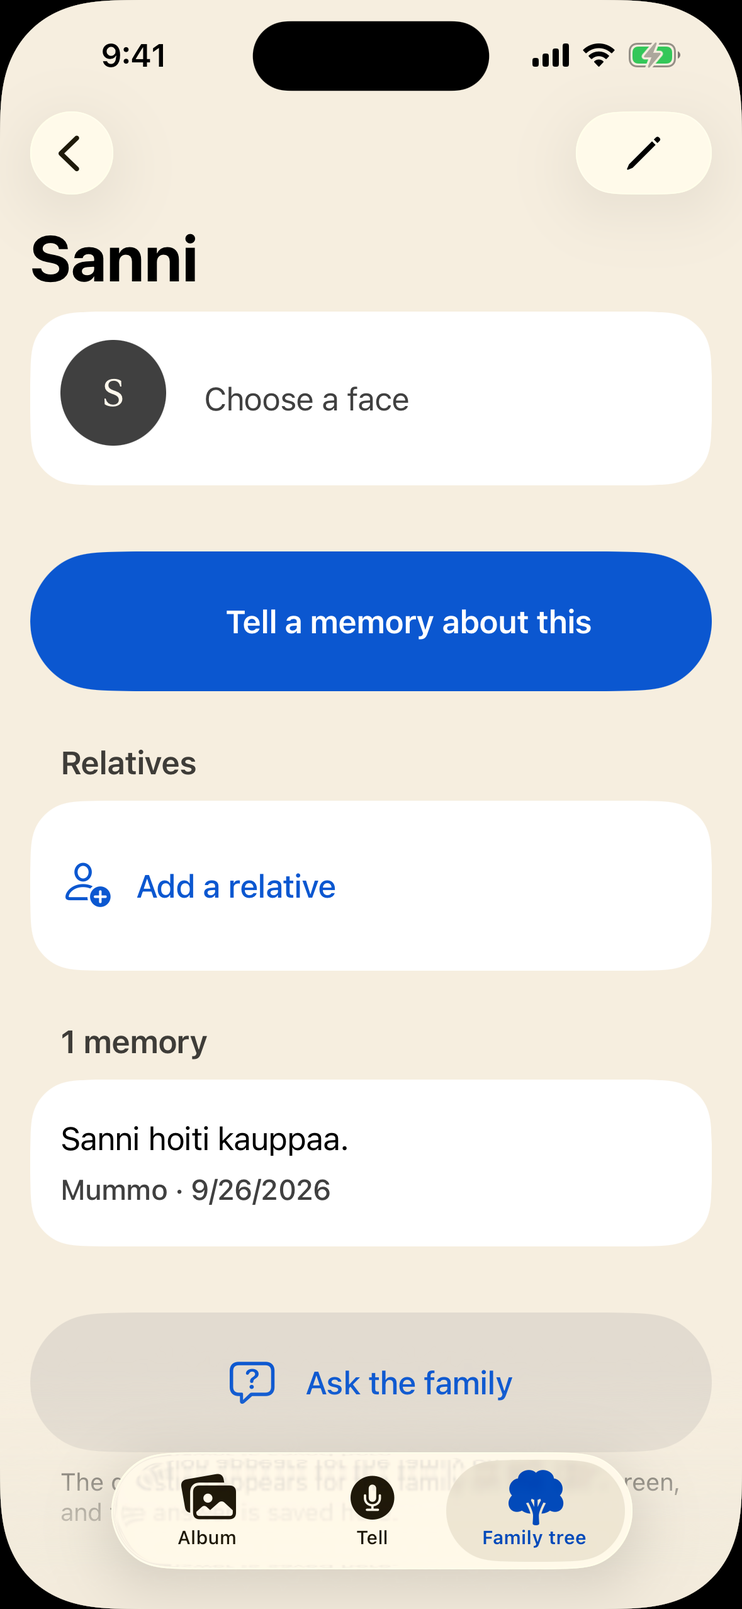
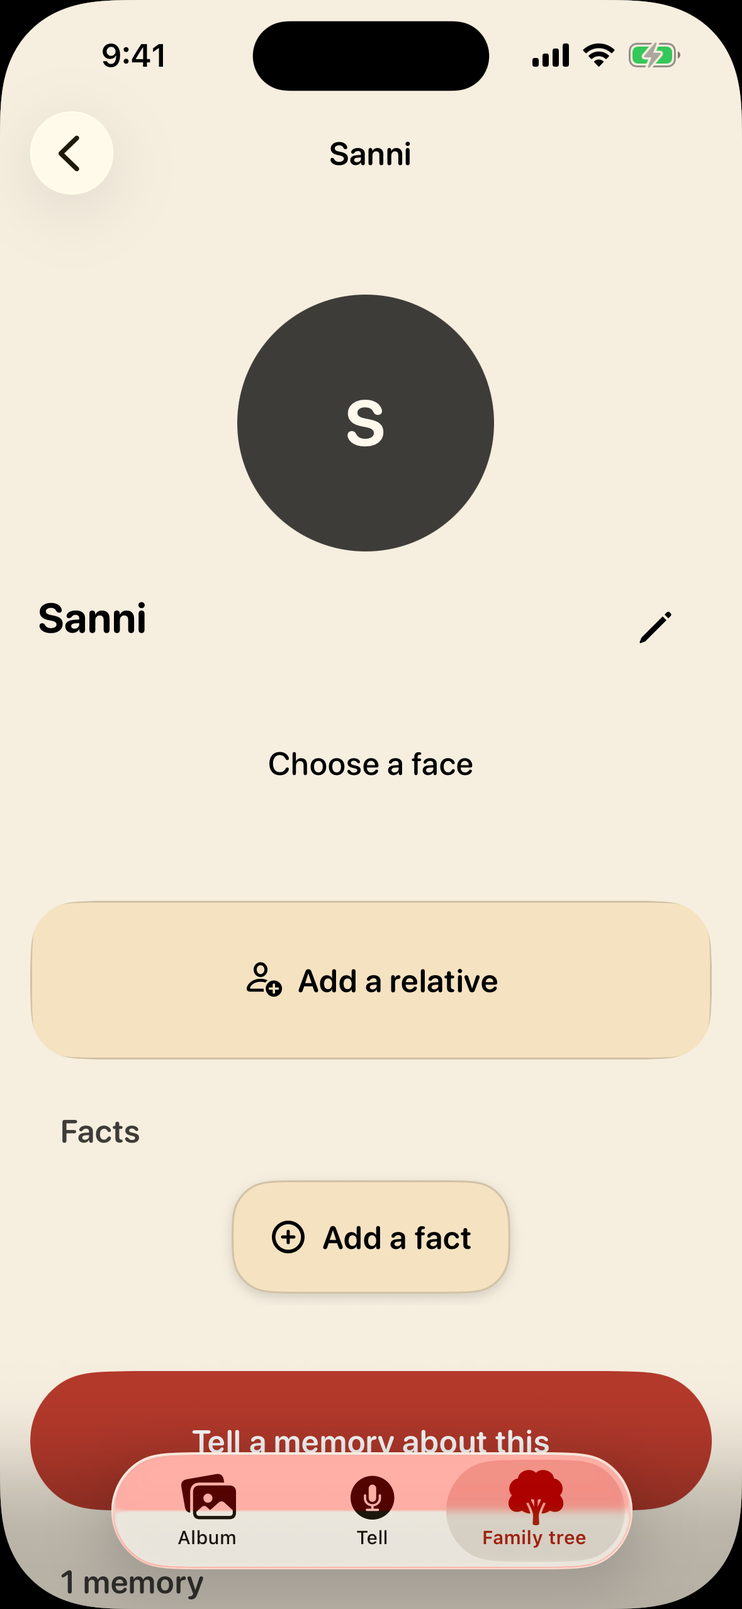
Retake the README pictures and correct the paywall text
The README's second picture was the first telling of an empty archive at
its top: the teller card and the date, with every name the telling heard
out of sight below them. It is now a later telling in the example
archive, scrolled to "I heard these": Aino and Toivo waiting as proposals
and Puumala among the familiar names. A DEBUG-only launch argument,
`-result heard`, does the scrolling, because a screenshot run has no
hands (ScrollsToHeardNames in TellScreen.swift, docs/SETUP.md). Without
it the screen is unchanged. ResultScreenTests, HeardNamesTests and the
three result sweeps pass on the build the pictures came from.

The third picture puts the generated jetty photograph from
scripts/photo-question-bench/ into the film seed for its one shot, in
place of the drawn stand-in. The GIF is the same telling from the
processing screen, held six seconds by `-processing slow`, to the names,
and its caption now says what is canned and what is held.

docs/DETAILS.md sets the result screen at two text sizes side by side and
lost its default-size half to the new picture 2, so the script takes that
state as 06-result-default.png. A GIF's first capture waits a second,
after one caught the launch animation and mount-prints stopped the run.
Every alt text that describes a retaken picture now matches it, the
Family tree tab included.

Text fixes, each read against the code: the server asks RevenueCat but
takes the customer id from the app (ARCHITECTURE §1); since 30 Sep a
[…]

diff --git a/ios/Kinlore/Screens/TellScreen.swift b/ios/Kinlore/Screens/TellScreen.swift
@@ -2464,6 +2464,34 @@ struct BlindCardView: View {
 
 // MARK: - Result
 
+#if DEBUG
+/// Screenshot aid: `-result heard` scrolls the result screen to what the
+/// telling named, two seconds after the screen appears. At the top of the
+/// screen those rows sit below the teller card and the memory's own text,
+/// out of sight on a phone, and a screenshot run has no hands to scroll
+/// with. `scripts/readme-shots.sh` takes the README's result picture and
+/// ends its GIF this way. Without the argument the screen is left as it is.
+private struct ScrollsToHeardNames: ViewModifier {
+    static let anchor = "heard"
+
+    @ViewBuilder
+    func body(content: Content) -> some View {
+        if UserDefaults.standard.string(forKey: "result") == "heard" {
+            ScrollViewReader { proxy in
+                content.task {
+                    try? await Task.sleep(for: .seconds(2))
+                    withAnimation(.easeInOut(duration: 0.6)) {
+                        proxy.scrollTo(Self.anchor, anchor: .top)
+                    }
+                }
+            }
+        } else {
+            content
+        }
+    }
+}
+#endif
+
 private struct ResultView: View {
     @Environment(MemoryStore.self) private var store
     @Environment(Session.self) private var session
@@ -2525,6 +2553,9 @@ private struct ResultView: View {
                 // here keeps the section open for its note (30 Sep 2026).
                 if !model.proposals.isEmpty || !model.known.isEmpty || !confirmedHere.isEmpty {
                     heardSection
+                        #if DEBUG
+                        .id(ScrollsToHeardNames.anchor)
+                        #endif
                 }
 
                 if !model.newQuestions.isEmpty {
@@ -2622,6 +2653,9 @@ private struct ResultView: View {
                 }
             }
             .padding(Elder.screenPadding)
+            #if DEBUG
+            .modifier(ScrollsToHeardNames())
+            #endif
         }
         .alert(
             "Poistetaanko tämä muisto?",

diff --git a/docs/index.html b/docs/index.html
@@ -254,7 +254,7 @@
       <figure class="shot" data-sc-reveal="left" data-sc-reveal-at="0.06 0.5">
         <div class="shot__frame" data-sc-tilt="5">
           <img src="media/04-person.png" width="1179" height="2556"
-               alt="Sanni's person card in the app: Choose a face, a large blue button reading Tell a memory about this, an empty Relatives section offering Add a relative, one memory, and an Ask the family button.">
+               alt="Sanni's person card in the app: a large initial S where a face would be, Choose a face, an Add a relative button, a Facts section offering Add a fact, and the red Tell a memory about this button half under the tab bar.">
         </div>
         <figcaption>
           <span data-l="fi" lang="fi">Oikea sovellus englanniksi, iPhone 16 -simulaattorissa.</span>

diff --git a/ios/Kinlore/Screens/TellerCard.swift b/ios/Kinlore/Screens/TellerCard.swift
@@ -4,7 +4,7 @@ import SwiftUI
 ///
 /// The author is the phone and the teller is the voice, and they come apart
 /// the moment one phone goes round a table — the case this app was born in
-/// (docs/PLAN.md §8: a memorial, twenty-five people, photographs on the table
+/// (docs/PLAN.md §8: a memorial, about twenty people, photographs on the table
 /// and nobody able to tell any of it). Until 19 Sep 2026 every telling made on
 /// this phone was filed under the phone's owner, so a grandmother's story told
 /// into a grandchild's phone read *"Ville kertoi"* for ever after.

diff --git a/docs/DETAILS.md b/docs/DETAILS.md
@@ -51,10 +51,10 @@ them sharing one tree. Read them after the code, not before.
 > the time as it was said — and two questions back.
 
 <p align="center">
-  <img src="media/demo.gif" alt="The app at work — Putting the memory in order, finding the people, the places and the time — then Memory saved, a Move to another card button, the date 1950s, and the question Who told this memory? with the answers Me, Someone else and I would rather not be named." width="320">
+  <img src="media/demo.gif" alt="The app at work — Putting the memory in order with the step Finding the people, the places and the time — then Memory saved, a Move to another card button, the date 1950s and the question Who told this memory?, and then the screen moves down past the memory's own text to I heard these: Aino and Toivo, each with the sentence the name was heard in and a cross and a tick, and Puumala under Familiar names." width="320">
 </p>
 
-<p align="center"><sub>Simulator, stub pipeline — the waiting is real, the model call is canned.<br>Reproduce it, and every picture on this page, with <code>scripts/readme-shots.sh</code>.</sub></p>
+<p align="center"><sub>Simulator, stub pipeline — the telling and the model call are canned, the wait is held six seconds longer so its step can be read, and a debug launch argument does the scrolling.<br>Reproduce it, and every picture on this page, with <code>scripts/readme-shots.sh</code>.</sub></p>
 
 ```
 audio → ASR (Finnish) → raw_transcript (kept verbatim)
@@ -66,9 +66,9 @@ memory.body           mentioned subjects      follow-up questions
 (cleaned text)        (confirmed = 0)         (prompt_question)
 ```
 
-| <img src="media/01-tell.png" alt="The Tell screen: the heading Tell what you remember, the line Talk at your own pace, freely, a large red microphone button with Press and start talking under it, and a Write instead link."> | <img src="media/02-result.png" alt="The result screen: Memory saved, a Move to another card button, the date 1950s, the card Who told this memory? with the answers Me, Someone else and I would rather not be named, and below it the beginning of the spoken text kept as it was said — in Finnish, because the sample telling is."> |
+| <img src="media/01-tell.png" alt="The Tell screen: the heading Tell what you remember, the line Talk at your own pace, and speak up, a large red microphone button with Press and start talking under it, two questions to start from — Who is the oldest person you remember? and Where did you live as a child? — the links Write instead and Add a photograph, and the tabs Album, Tell and Family tree."> | <img src="media/02-result.png" alt="The result screen scrolled to I heard these, with the line Write the name again if I heard it wrong. Nobody joins the family without your approval. Below it Aino and Toivo, each marked Person, with the sentence the name was heard in and a cross and a tick beside it; then Familiar names, where Puumala stands with its sentence and an A different place button."> |
 |---|---|
-| **Telling.** One button, and a way out of it for anyone who would rather type. | **What comes back.** The date is a decade because that is what was said, and no name enters the family tree before somebody confirms it. |
+| **Telling.** One button, and a way out of it for anyone who would rather type. Two questions wait under it for anyone who does not know where to begin. | **What comes back.** A later telling in the example archive. The names it heard wait for a cross or a tick, because no name enters the family tree before somebody confirms it. Above them, as the GIF shows, the date is a decade because that is what was said. |
 
 Everything else in the app exists to make that loop worth repeating. What is
 built and what is not is inventoried, honestly, in
@@ -83,7 +83,7 @@ without a tap. That matters because the person it is for should not have to
 operate anything while she is remembering:
 
 <p align="center">
-  <img src="media/demo-interview.gif" alt="The app putting a memory in order, then asking Who else was there? and listening with a running timer, then writing the speech down as text, putting it in order again and asking What sort of person was Aino? — two full rounds with no tap in between." width="320">
+  <img src="media/demo-interview.gif" alt="The app putting a memory in order, then asking Who else was there? and listening with a running timer, then a checklist — Your voice is kept on this phone, Writing the speech down as text, Finding the people, the places and the time — and then asking Roughly what year was this? and listening again: one round finished and the next begun, with no tap in between." width="320">
 </p>
 
 <p align="center"><sub>Two rounds, hands-free. The timer counts real seconds, not a cut.<br>Reproduce it with <code>scripts/readme-shots.sh</code>, which runs <code>-screen interview</code>.</sub></p>
@@ -125,8 +125,8 @@ The other four, and the full text, are in [CLAUDE.md](../CLAUDE.md#rules-that-do
    `BlindConfirmationTests` checks every text, button and image on it
    ([`ARCHITECTURE.md` §23](ARCHITECTURE.md#the-blind-confirmation-built-30-aug-2026)).
 
-   <p align="center"><img src="media/03-who-is-this.png" alt="The blind card: a drawn stand-in photograph, the question Who is this?, four names in identical black buttons — Sanni, Aino, Eeva and Kalle — and I do not remember below them." width="300"></p>
-   <p align="center"><sub>Simulator, <code>-seed blind</code> — the photograph is the fixture's drawn stand-in.<br>One of the four names is the proposal, and nothing on the screen says which.</sub></p>
+   <p align="center"><img src="media/03-who-is-this.png" alt="The blind card: a generated black-and-white photograph of two women and a man on a lakeside jetty, a rowing boat tied beside them and a log sauna behind, the question Who is this?, four names in identical black buttons — Aino, Elli, Helmi and Liisa — and I do not remember below them." width="300"></p>
+   <p align="center"><sub>Simulator, <code>-seed film</code> — the photograph is generated for the shot, and nobody in it exists.<br>One of the four names is the proposal, and nothing on the screen says which.</sub></p>
 
 5. **Uncertainty is stored, not rounded.** "Sometime in the fifties" goes into
    `date_start`/`date_end` with precision `decade`. No date is forced.
@@ -141,9 +141,9 @@ attaches to any subject. That is why *"write a memory about this photo"* and
 path, and why the family tree is just the edges between person subjects.
 Schema: [`backend/schema.sql`](../backend/schema.sql).
 
-| <img src="media/04-person.png" alt="A person card for Sanni: Choose a face, a large blue button reading Tell a memory about this, an empty Relatives section offering Add a relative, one memory told by Mummo — in Finnish, because the demo archive is — and an Ask the family button."> | <img src="media/05-family.png" alt="The family screen for the Virtaset family on the Free tier: everything sent, the copy on this phone, this month's usage — 7 of 10 minutes of transcription time and 12 of 20 photographs — and the members with the dates they joined."> |
+| <img src="media/04-person.png" alt="A person card for Sanni: a large initial S where a face would be, Choose a face, an Add a relative button, a Facts section offering Add a fact, the red Tell a memory about this button half under the tab bar with Family tree selected, and the heading 1 memory below it."> | <img src="media/05-family.png" alt="The family screen for the Virtaset family on the Free tier: everything sent, the copy on this phone, this month's usage — 7 of 10 minutes of transcription time and 12 of 20 photographs — and the members with the dates they joined."> |
 |---|---|
-| A person card is the same screen as a photo, because a person is the same row. The empty **Relatives** section is the point: a gap is an invitation, not an error. | One archive, several members, one shared quota. The quota belongs to the family rather than to whoever paid for it — see **Who pays**. |
+| A person card is the same screen as a photo, because a person is the same row. *Add a relative* near the top is the point: a gap is an invitation, not an error. | One archive, several members, one shared quota. The quota belongs to the family rather than to whoever paid for it — see **Who pays**. |
 
 ## How to check any of this yourself
 
@@ -224,7 +224,7 @@ session, the 15 Aug commit reported 15 failures that were not real — see
 But the number is not the argument. This is one screen at the default text size
 and at the largest one iOS offers, which is the size rule 1 is actually about:
 
-| <img src="media/02-result.png" alt="The result screen at the default text size: Memory saved, Move to another card, the date 1950s, the whole Who told this memory? card and the start of the spoken text, all visible at once."> | <img src="media/06-result-xxxl.png" alt="The same result screen at the largest accessibility text size: Memory saved wraps to two lines, Move to another card to two and Who told this memory? to three, nothing is clipped or truncated, and the screen scrolls instead."> |
+| <img src="media/06-result-default.png" alt="The result screen at the default text size: Memory saved, Move to another card, the date 1950s, the whole Who told this memory? card and the start of the spoken text, all visible at once."> | <img src="media/06-result-xxxl.png" alt="The same result screen at the largest accessibility text size: Memory saved wraps to two lines, Move to another card to two and Who told this memory? to three, nothing is clipped or truncated, and the screen scrolls instead."> |
 |---|---|
 | Default | Accessibility XXXL |
 

diff --git a/README.md b/README.md
@@ -35,22 +35,21 @@ I built it for the [RevenueCat Shipaton 2026](https://revenuecat-shipaton-2026.d
 hackathon, in the Next Gen Award (the student category).
 
 <p align="center">
-  <img src="docs/media/mounted/demo.gif" alt="The app at work — Putting the memory in order, finding the people, the places and the time — then Memory saved, a Move to another card button, the date 1950s, and the question Who told this memory? with the answers Me, Someone else and I would rather not be named." width="320">
+  <img src="docs/media/mounted/demo.gif" alt="The app at work — Putting the memory in order with the step Finding the people, the places and the time — then Memory saved, a Move to another card button, the date 1950s and the question Who told this memory?, and then the screen moves down past the memory's own text to I heard these: Aino and Toivo, each with the sentence the name was heard in and a cross and a tick, and Puumala under Familiar names." width="320">
 </p>
 
-<p align="center"><sub>Simulator, stub pipeline: the waiting is real and the model call is canned.<br><code>scripts/readme-shots.sh</code> makes this GIF and the pictures below.</sub></p>
+<p align="center"><sub>Simulator, stub pipeline: the telling and the model call are canned, the wait is held six seconds longer so its step can be read, and a debug launch argument does the scrolling.<br><code>scripts/readme-shots.sh</code> makes this GIF and the pictures below.</sub></p>
 
-| <a href="docs/media/01-tell.png"><img src="docs/media/mounted/01-tell.png" alt="The Tell screen: the heading Tell what you remember, the line Talk at your own pace, freely, a large red microphone button with Press and start talking under it, and a Write instead link." width="1179"></a> | <a href="docs/media/02-result.png"><img src="docs/media/mounted/02-result.png" alt="The result screen: Memory saved, a Move to another card button, the date 1950s, the card Who told this memory? with the answers Me, Someone else and I would rather not be named, and below it the beginning of the spoken text kept as it was said — in Finnish, because the sample telling is." width="1179"></a> | <a href="docs/media/03-who-is-this.png"><img src="docs/media/mounted/03-who-is-this.png" alt="The blind card: a drawn stand-in photograph, the question Who is this?, four names in identical black buttons — Sanni, Aino, Eeva and Kalle — and I do not remember below them." width="1179"></a> |
+| <a href="docs/media/01-tell.png"><img src="docs/media/mounted/01-tell.png" alt="The Tell screen: the heading Tell what you remember, the line Talk at your own pace, and speak up, a large red microphone button with Press and start talking under it, two questions to start from — Who is the oldest person you remember? and Where did you live as a child? — the links Write instead and Add a photograph, and the tabs Album, Tell and Family tree." width="1179"></a> | <a href="docs/media/02-result.png"><img src="docs/media/mounted/02-result.png" alt="The result screen scrolled to I heard these, with the line Write the name again if I heard it wrong. Nobody joins the family without your approval. Below it Aino and Toivo, each marked Person, with the sentence the name was heard in and a cross and a tick beside it; then Familiar names, where Puumala stands with its sentence and an A different place button." width="1179"></a> | <a href="docs/media/03-who-is-this.png"><img src="docs/media/mounted/03-who-is-this.png" alt="The blind card: a generated black-and-white photograph of two women and a man on a lakeside jetty, a rowing boat tied beside them and a log sauna behind, the question Who is this?, four names in identical black buttons — Aino, Elli, Helmi and Liisa — and I do not remember below them." width="1179"></a> |
 |---|---|---|
-| **Telling.** One button, and a way out of it for anyone who would rather type. | **What comes back.** The date is a decade because that is what was said, and no name enters the family tree before somebody confirms it. *Move to another card* files the memory under a different photo or person if it landed on the wrong one. | **Who is this?** One of the four names is the proposal, and nothing on the screen says which. Here a drawn stand-in takes the place of the photograph the name was heard in. |
+| **Telling.** One button, and a way out of it for anyone who would rather type. Two questions wait under it for anyone who does not know where to begin. | **What comes back.** A later telling in the example archive. The two names it heard wait for a cross or a tick, because no name enters the family tree before somebody confirms it, and Puumala, a place the family has already confirmed, can still be corrected. Above them, as the GIF shows, the date is a decade because that is what was said; below them come the questions the app would still ask. | **Who is this?** One of the four names is the proposal, and nothing on the screen says which. The photograph is generated and shows nobody real; it stands in for the one the name was heard in. |
 
 ## At a glance
 
 - **Built with** SwiftUI · Cloudflare Workers + D1 + R2 · OpenRouter · RevenueCat
 - **RevenueCat** One member buys and the whole family gets the archive. The SDK
   and RevenueCatUI's paywall run on the phone; the Worker asks RevenueCat's REST
-  API what the buyer owns rather than taking the phone's word, and the webhook
-  keeps it current.
+  API what the buyer owns, and the webhook keeps it current.
 - **Tested** 406 UI tests, including 127 accessibility sweeps that audit a
   screen at the default text size and again at the largest.
   `./scripts/verify.sh` holds 64 checks that cost nothing and says which it
@@ -200,20 +199,26 @@ Purchases run on the RevenueCat Test Store, since there is no App Store release.
 - **The paywall** is RevenueCatUI's own view, designed and priced remotely in
   RevenueCat's dashboard, and
   [`PaywallSheet.swift`](ios/Kinlore/Screens/PaywallSheet.swift) presents it in
-  three places. The result screen offers it after one telling in three, never
-  when that telling proposed names somebody has to confirm and never on a
-  grandparent's phone. A limit the family has hit gets the offer beside it on
-  every phone, a grandparent's included. And the family screen has an *Open the
-  whole archive* button. `UpsellRhythm.swift` holds these rules.
+  three places. The result screen offers it after every third telling, never
+  when that telling proposed names somebody has to confirm, and never on a
+  phone with *Larger text* on, which is how the app knows a grandparent's
+  phone. A limit the family has hit gets the offer beside it on every phone,
+  the grandparent's too. And the family screen has an *Open the whole archive*
+  button. `UpsellRhythm.swift` holds these rules.
 - **The app user id** is the family member's id
   ([`RevenueCatPurchases.swift`](ios/Kinlore/Services/RevenueCatPurchases.swift)),
   so the webhook can find the family without the app being open.
-- **The server does not take the phone's word.** In
+- **The server asks RevenueCat what was bought.** In
   [`backend/src/entitlement.ts`](backend/src/entitlement.ts),
-  `POST /entitlement/sync` asks RevenueCat's REST API what the customer owns,
-  and the webhook takes the paid tier away only on an expiry, a transfer or a
-  refund. A unique index in `backend/schema.sql` keeps one purchase to one
-  family.
+  `POST /entitlement/sync` asks RevenueCat's REST API what the customer owns.
+  The customer id it asks about comes from the app, and the server does not
+  yet compare it with the member's own id, one of the
+  [known issues](docs/ARCHITECTURE.md#1-where-things-stand). Since 30 Sep 2026
+  a webhook event is only a cue: the Worker asks RevenueCat the same question
+  and applies the answer. When RevenueCat cannot be asked, the event decides,
+  and an expiry or a refund takes the paid tier away; a transfer always takes
+  it from the customer it moved away from. A unique index in
+  `backend/schema.sql` keeps one purchase to one family.
 - **Each piece has a check** that needs no key and no network, and
   `./scripts/verify.sh` runs them all.
 

diff --git a/docs/SETUP.md b/docs/SETUP.md
@@ -254,6 +254,7 @@ xcrun simctl launch <device> com.kinlore.app -tab people -screen person
 | `-recovery-sweep recording` / `-recovery-sweep stopped` | DEBUG | With `-defer once`: runs the launch sweep of orphaned recordings again a second into the telling, or between its stop and its save — the two moments it could land on until 26 Sep 2026, when it still listed tmp for itself as late as the network let it run, and lost the recording at both. The real timing needs a slow network at exactly the wrong second. `SilentFailureTests` asserts the recording now survives both. |
 | `-recovery orphan` | DEBUG | Leaves a finished two-second recording in tmp before the launch sweep takes its list, as a launch killed between the stop and the save would: it arrives on Album (*Albumi*) as an audio-only memory. The real one needs the app killed at that moment. |
 | `-screen result` | DEBUG | Runs a canned memory through the stub pipeline and **stops** at the result screen, with the name proposals on it. `-screen interview` reaches the same screen and starts talking a second later; `-defer structure` reaches it with no proposals at all. This is the only way to hold still the screen where a misheard name is caught (rule 4), and nothing had ever measured those rows. |
+| `-result heard` | DEBUG | Two seconds after the result screen appears, scrolls it to *"I heard these"* (*"Kuulin nämä"*), where the names the telling named wait to be checked. On a phone those rows sit below the teller card and the memory's text, and a screenshot run cannot scroll. `scripts/readme-shots.sh` takes the README's result picture and ends its GIF this way. Without it the screen opens at its top, as it always does (`ScrollsToHeardNames` in TellScreen.swift). |
 | `-import 3` | DEBUG | Stands in for the system photo picker at the end of an import: it puts three untitled photographs in the archive and hands them to the sheet that asks when they are from. The picker itself cannot be driven from a test run, so the whole bulk path was unreachable without this. See `ImportTests`. |
 | `-mic denied` | DEBUG | The microphone is refused without touching the device's own permission. The screen behind a refusal is otherwise reachable only by saying no to the system prompt and then digging the app back out of iOS Settings — so nothing had ever measured it. See ARCHITECTURE.md §8. |
 | `-seed family` | DEBUG | A family with **no server behind it**: three members, two open invitations — one made out to a name, one not — and a part-spent free quota. The Family screen (*Perhe*) is drawn entirely from what the Worker sends, so without this every run reaches the offline note instead, and the invite rows are the one part of the app that nothing could ever measure. It does not touch the archive; combine it with no other `-seed`, since they all share the key. |

diff --git a/docs/ARCHITECTURE.md b/docs/ARCHITECTURE.md
@@ -90,7 +90,7 @@ An honest inventory, not a wish list:
 | Colouring a photograph by what was told about it | **Done and tested, deployed 13 Sep 2026**, see §24 — kept only after somebody answers yes, and the model was chosen on one photograph |
 | Repo in English | **Done** |
 | Moderation (`report`, `block`) | Formally out of v1, see §7 and the decision at the end of §14 |
-| Demo video | **In progress**, see docs/VIDEO.md — the shot list, the dry run of 28 Aug 2026 and the takes for the v16 and v21 cuts, which `FilmDriver` taps through. On 25 Sep 2026 three finished takes were found carrying Finnish prices and dates and had to be shot again; no finished cut is recorded in this repository |
+| Demo video | **Done** — the finished cut is the video submitted with the entry. It was edited outside this repository; docs/VIDEO.md keeps the shot list, the dry run of 28 Aug 2026 and the takes `FilmDriver` taps through |
 
 The critical path is open: family and sync work, so everything else stands on
 them. What is left is either cuttable or somebody's to record — see PLAN.md §8

diff --git a/docs/PLAN.md b/docs/PLAN.md
@@ -444,8 +444,8 @@ whoever else is there, in these words:
 > *"Kun te olitte siinä tilaisuudessa muistelemassa — mikä olisi saanut teidät
 > kertomaan?"*
 
-The question has an antecedent and it is where this whole product came from: a
-memorial for a grandmother, about twenty-five people, plenty of photographs on
+The question has an antecedent and it is where this whole product came from:
+my great-grandmother's memorial, about twenty people, plenty of photographs on
 the table, and nobody able to tell any of it properly. That is §1's premise one
 level up — a room that knows collectively and cannot get it out — and it is the
 densest hour of memory a family ever has.
